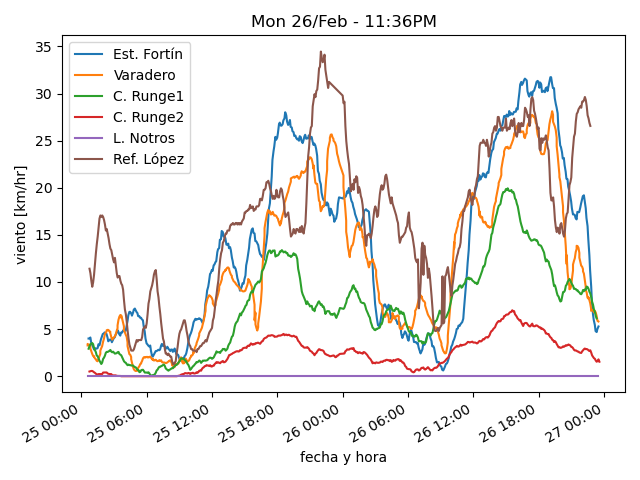
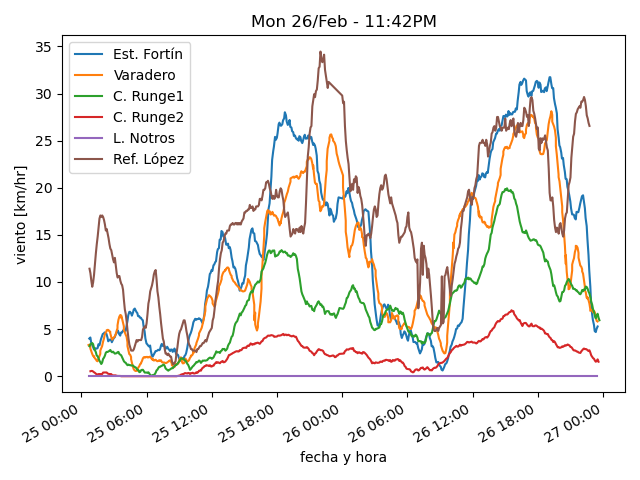
actualiza datos

diff --git a/estaciones/estacion3.html b/estaciones/estacion3.html
@@ -18,12 +18,12 @@
     </tr>
     <tr>
      <td class="stats_data">
-      11:19PM
+      11:39PM
      </td>
     </tr>
     <tr>
      <td class="stats_data">
-      14.1
+      13.8
      </td>
     </tr>
     <tr>
@@ -33,17 +33,17 @@
     </tr>
     <tr>
      <td class="stats_data">
-      66.2
+      68.0
      </td>
     </tr>
     <tr>
      <td class="stats_data">
-      1009.52
+      1009.41
      </td>
     </tr>
     <tr>
      <td class="stats_data">
-      4.0/5.3 WNW
+      3.2/4.5 WSW
      </td>
     </tr>
     <tr>
